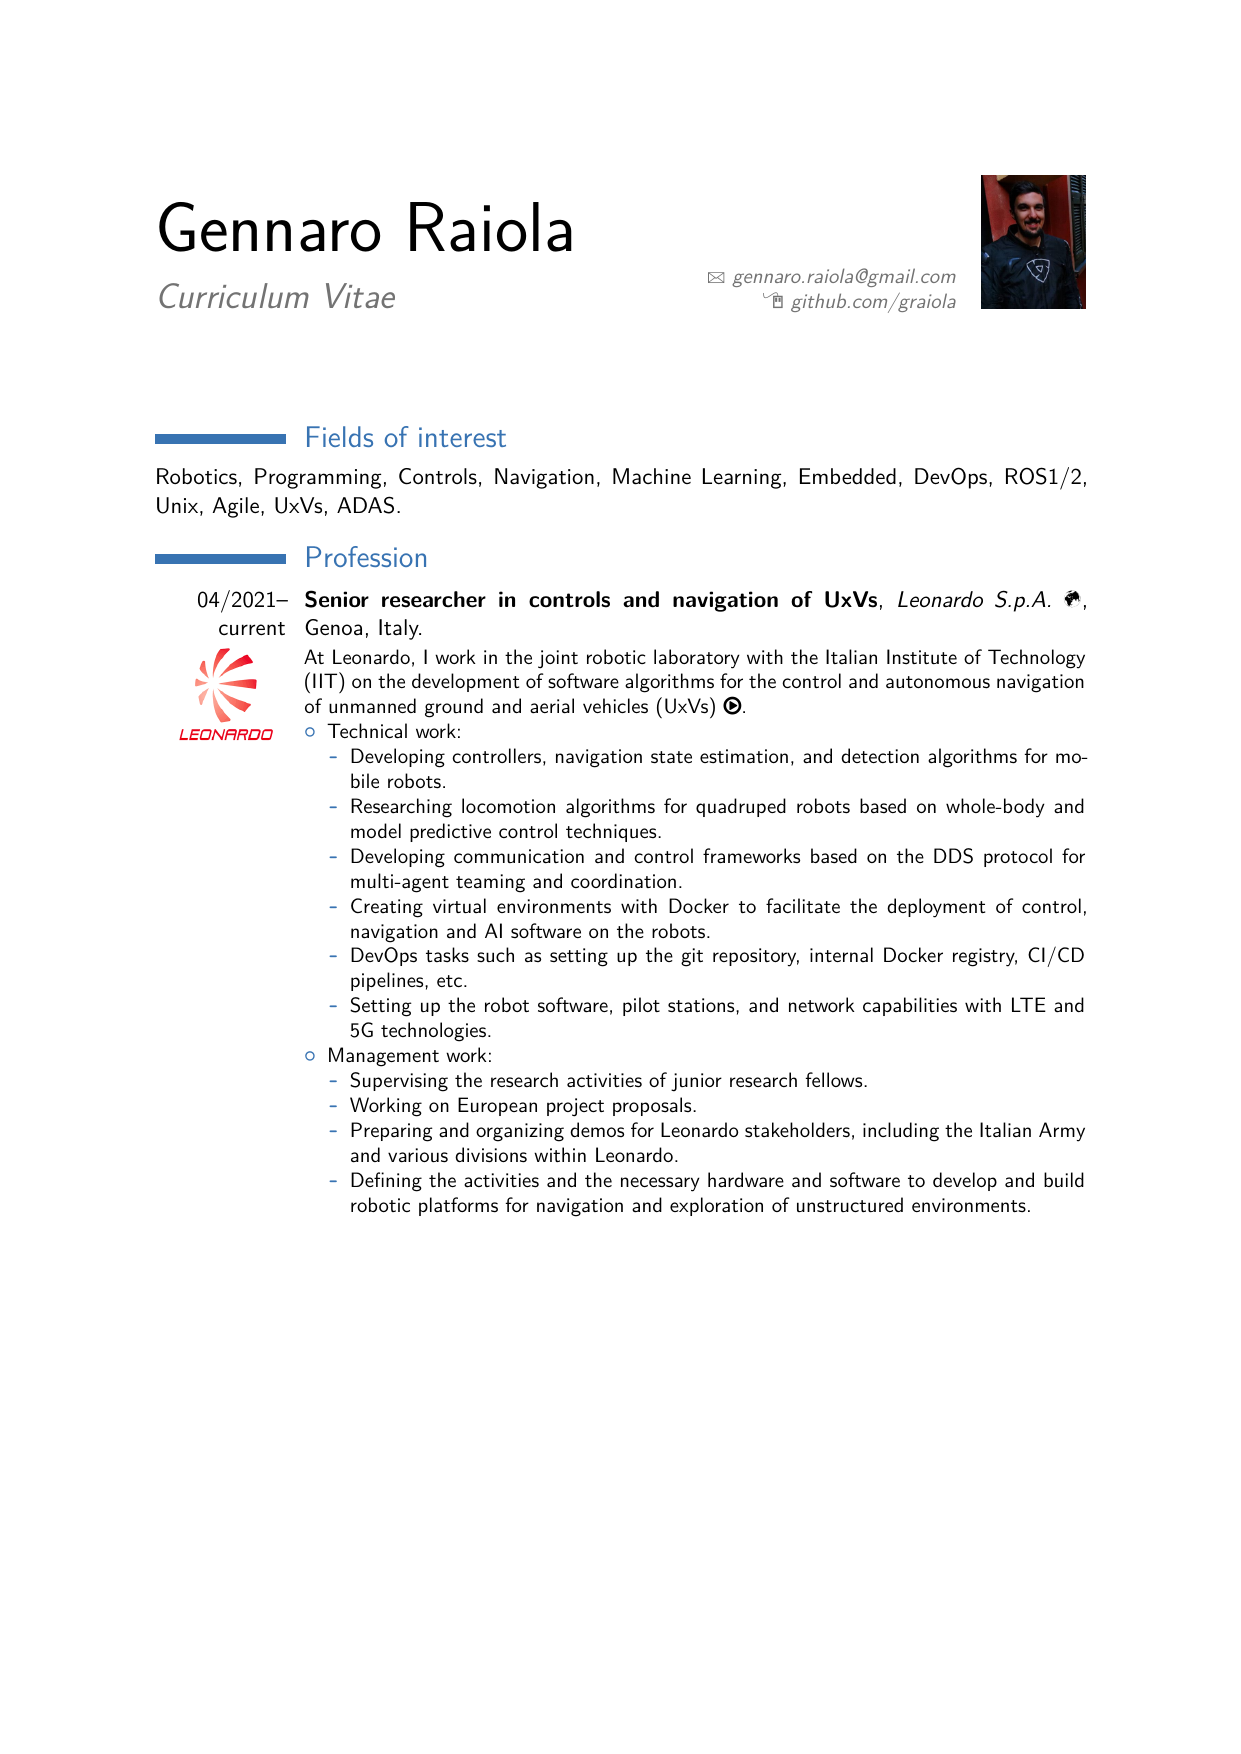
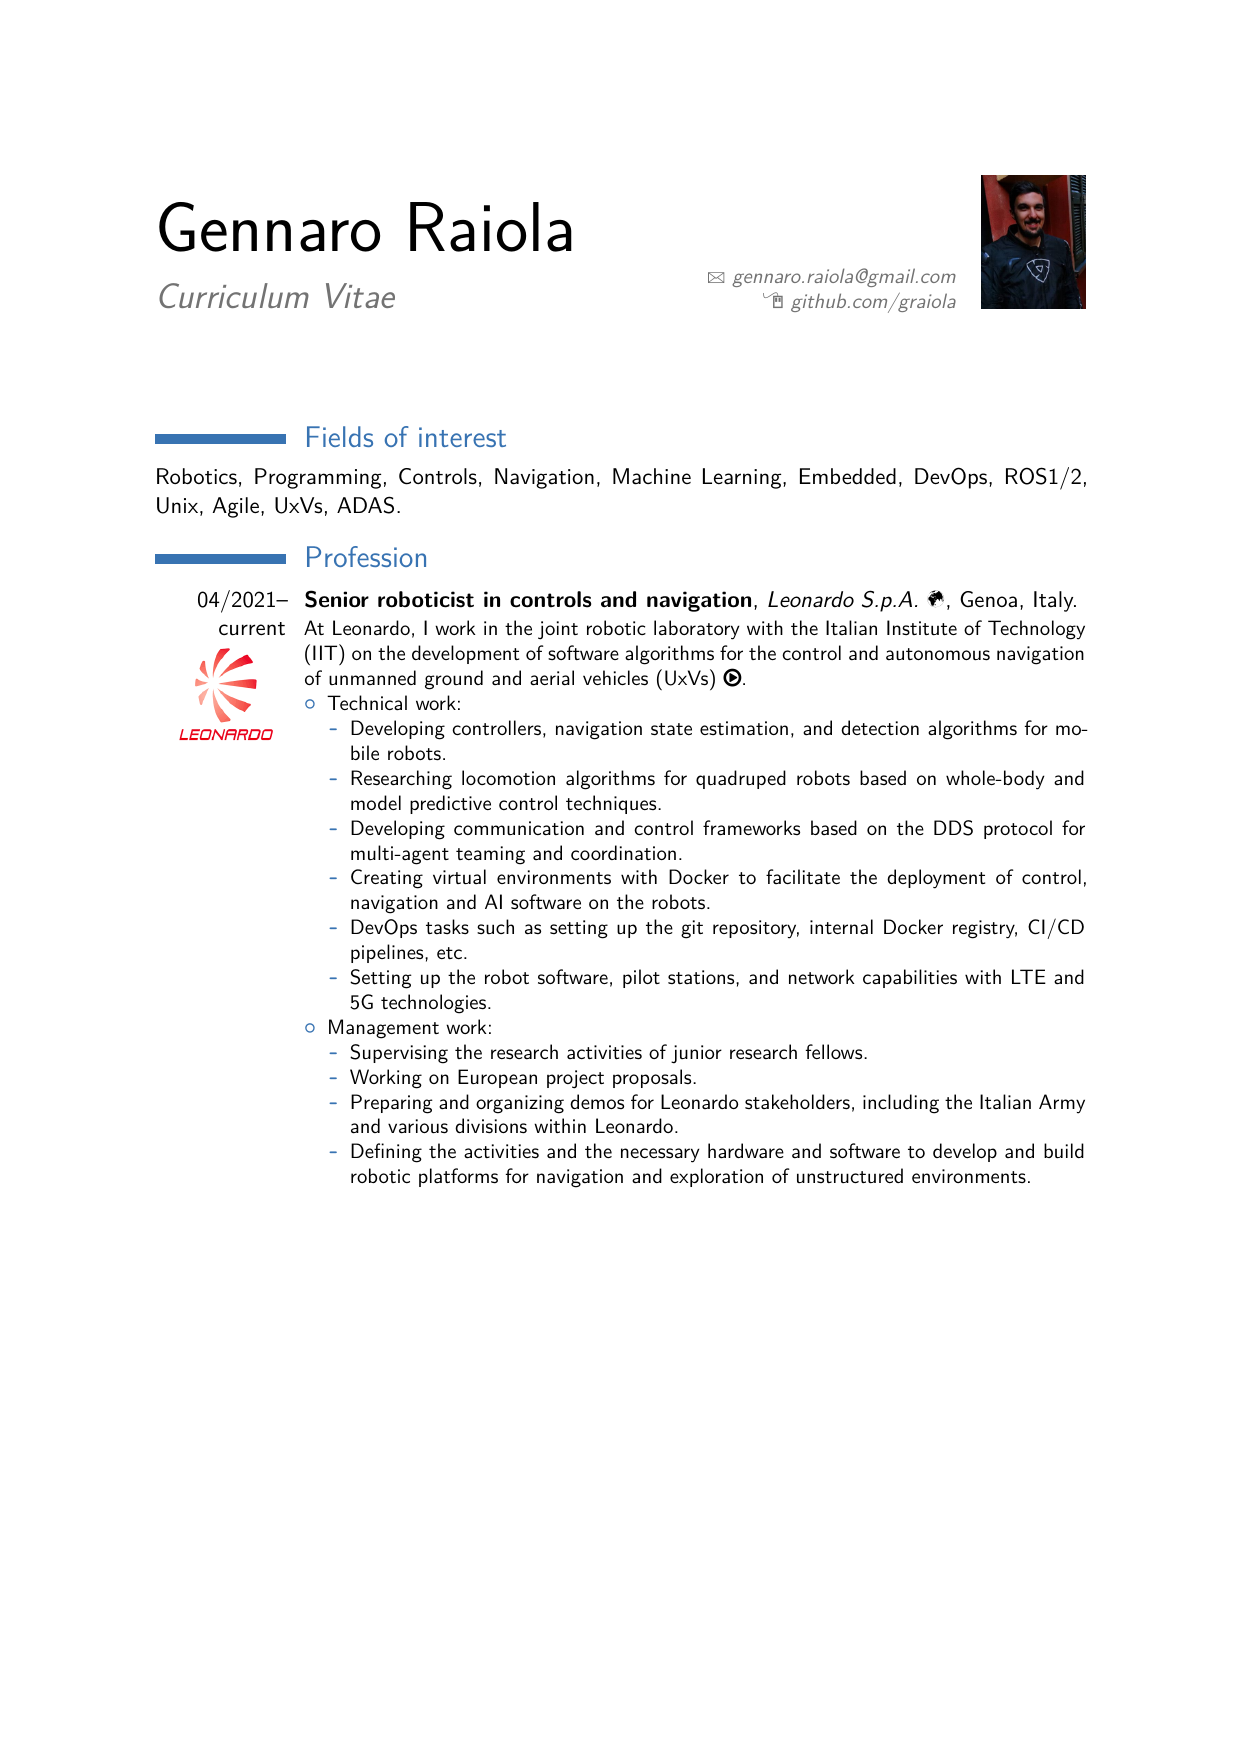
Generated files updated on gio 19 ott 2023, 09:06:44, CEST

Changed region(s): [[0.245, 0.3387, 0.888, 0.7081]]

diff --git a/CV_Gennaro-Raiola.tex b/CV_Gennaro-Raiola.tex
@@ -80,7 +80,7 @@
 \section{Fields of interest}
 Robotics, Programming, Controls, Navigation, Machine Learning, Embedded, DevOps, ROS1/2, Unix, Agile, UxVs, ADAS.
 \section{Profession}
-\cventry{04/2021--current \logo{leonardo}}{Senior researcher in controls and navigation of UxVs}{Leonardo S.p.A. \href{https://www.leonardocompany.com/}{\Mundus}}{Genoa, Italy}{}{ 
+\cventry{04/2021--current \logo{leonardo}}{Senior roboticist in controls and navigation}{Leonardo S.p.A. \href{https://www.leonardocompany.com/}{\Mundus}}{Genoa, Italy}{}{ 
 At Leonardo, I work in the joint robotic laboratory with the Italian Institute of Technology (IIT) on the development of software algorithms for the control and autonomous navigation of unmanned ground and aerial vehicles (UxVs) \href{https://youtu.be/hWOjaNWAr-Q}{\faPlayCircle}.
 \begin{itemize}
 \item Technical work:
